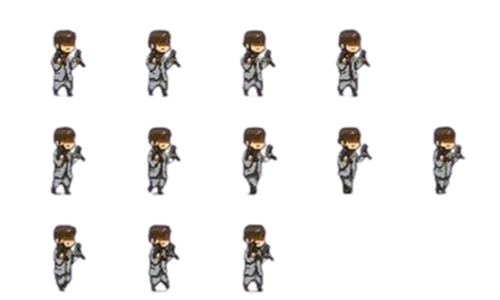
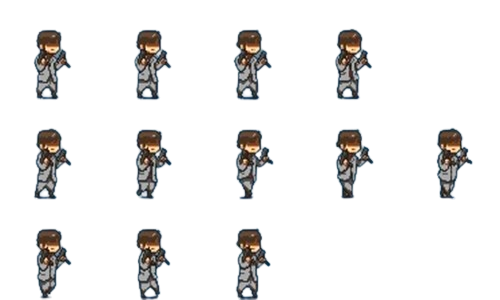
boy 프레임이 잘리던 문제 해결

diff --git a/boy.py b/boy.py
@@ -5,11 +5,19 @@ import game_world
 from state_machine import StateMachine
 
 # 캐릭터 스프라이트 정보
-FRAME_COLS = 4
+FRAME_COLS = 5
 FRAME_ROWS = 3
 IDLE_ROW = 0           # Idle 프레임이 있는 행
 RUN_ROW  = 1           # Run 프레임이 있는 행
-SPEED = 0.3
+SPEED = 0.15
+
+# 실제 시트가 있는 칸만 사용하도록 설정
+IDLE_FRAMES = [(0,0), (0,1), (0,2), (0,3)]
+
+RUN_FRAMES = [
+    (1,0), (1,1), (1,2), (1,3), (1,4),
+    (2,0), (2,1), (2,2)
+]
 
 # 미션 해결을 위한 이벤트 (나중에 구현)
 # def space_down(e): # e is space down ?
@@ -20,14 +28,11 @@ SPEED = 0.3
 def right_down(e):
     return e[0] == 'INPUT' and e[1].type == SDL_KEYDOWN and e[1].key == SDLK_RIGHT
 
-
 def right_up(e):
     return e[0] == 'INPUT' and e[1].type == SDL_KEYUP and e[1].key == SDLK_RIGHT
 
-
 def left_down(e):
     return e[0] == 'INPUT' and e[1].type == SDL_KEYDOWN and e[1].key == SDLK_LEFT
-
 
 def left_up(e):
     return e[0] == 'INPUT' and e[1].type == SDL_KEYUP and e[1].key == SDLK_LEFT
@@ -35,14 +40,11 @@ def left_up(e):
 def up_down(e):
     return e[0] == 'INPUT' and e[1].type == SDL_KEYDOWN and e[1].key == SDLK_UP
 
-
 def up_up(e):
     return e[0] == 'INPUT' and e[1].type == SDL_KEYUP and e[1].key == SDLK_UP
 
-
 def down_down(e):
     return e[0] == 'INPUT' and e[1].type == SDL_KEYDOWN and e[1].key == SDLK_DOWN
-
 
 def down_up(e):
     return e[0] == 'INPUT' and e[1].type == SDL_KEYUP and e[1].key == SDLK_DOWN
@@ -64,15 +66,18 @@ class Idle:
         pass
 
     def do(self):
-        self.boy.frame = (self.boy.frame + 1) % FRAME_COLS
+        self.boy.frame = (self.boy.frame + 1) % len(IDLE_FRAMES) # Idle 프레임 수 4개만
 
     def draw(self):
-        offset_x = [-15, -10, -5, 0]  # 프레임별 중심 보정
-        sx = (self.boy.frame % 4) * 100
-        sy = 0 # 첫번째 행
+        row, col = IDLE_FRAMES[self.boy.frame]
 
-        self.boy.image.clip_draw(sx, sy, 100, 100, self.boy.x + offset_x[self.boy.frame], self.boy.y)
+        sx =  col * self.boy.fw
+        sy = (FRAME_ROWS - 1 - row) * self.boy.fh
 
+        self.boy.image.clip_draw(
+            sx, sy, self.boy.fw, self.boy.fh,
+            self.boy.x, self.boy.y
+        )
 
 
 class Run:
@@ -93,7 +98,7 @@ class Run:
         pass
 
     def do(self):
-        self.boy.frame = (self.boy.frame + 1) % FRAME_COLS
+        self.boy.frame = (self.boy.frame + 1) % len(RUN_FRAMES)
 
         self.boy.x += self.boy.dx * SPEED
         self.boy.y += self.boy.dy * SPEED
@@ -115,15 +120,22 @@ class Run:
             self.boy.state_machine.handle_state_event(('STOP', None))
 
     def draw(self):
-        offset_x = [-14, -10, -5, 0, 5]
-        sx = (self.boy.frame % 5) * 100
-        sy = 100 # 두번째 행
+
+        row, col = RUN_FRAMES[self.boy.frame]
+
+        sx = col * self.boy.fw
+        sy = (FRAME_ROWS - 1 - row) * self.boy.fh
 
         if self.boy.current_dir < 0:
-            self.boy.image.clip_draw(sx+100, sy, 100, 100, self.boy.x + offset_x[self.boy.frame], self.boy.y)
+            self.boy.image.clip_draw(
+                sx, sy, self.boy.fw, self.boy.fh,
+                self.boy.x, self.boy.y
+            )
         else: # face_dir == -1: # left
-            self.boy.image.clip_draw(sx, sy, 100, 100, self.boy.x + offset_x[self.boy.frame], self.boy.y)
-
+            self.boy.image.clip_draw(
+                sx, sy, self.boy.fw, self.boy.fh,
+                self.boy.x, self.boy.y
+            )
 
 class Boy:
     def __init__(self):

diff --git a/main.py b/main.py
@@ -3,7 +3,7 @@ import game_framework
 import play_mode as play_state
 
 def main():
-    open_canvas(1024, 1024)  # HD 해상도 권장
+    open_canvas(1024, 1024)
     game_framework.run(play_state)
     close_canvas()
 

diff --git a/zombie.py b/zombie.py
@@ -11,7 +11,7 @@ ROW_RIGHT = 2   # 오른쪽
 ROW_UP    = 3   # 등 - 위
 
 FRAME_COUNT = 4
-SPEED = 0.2
+SPEED = 0.15
 
 class Zombie:
     global ROW_DOWN, ROW_LEFT, ROW_RIGHT, ROW_UP
